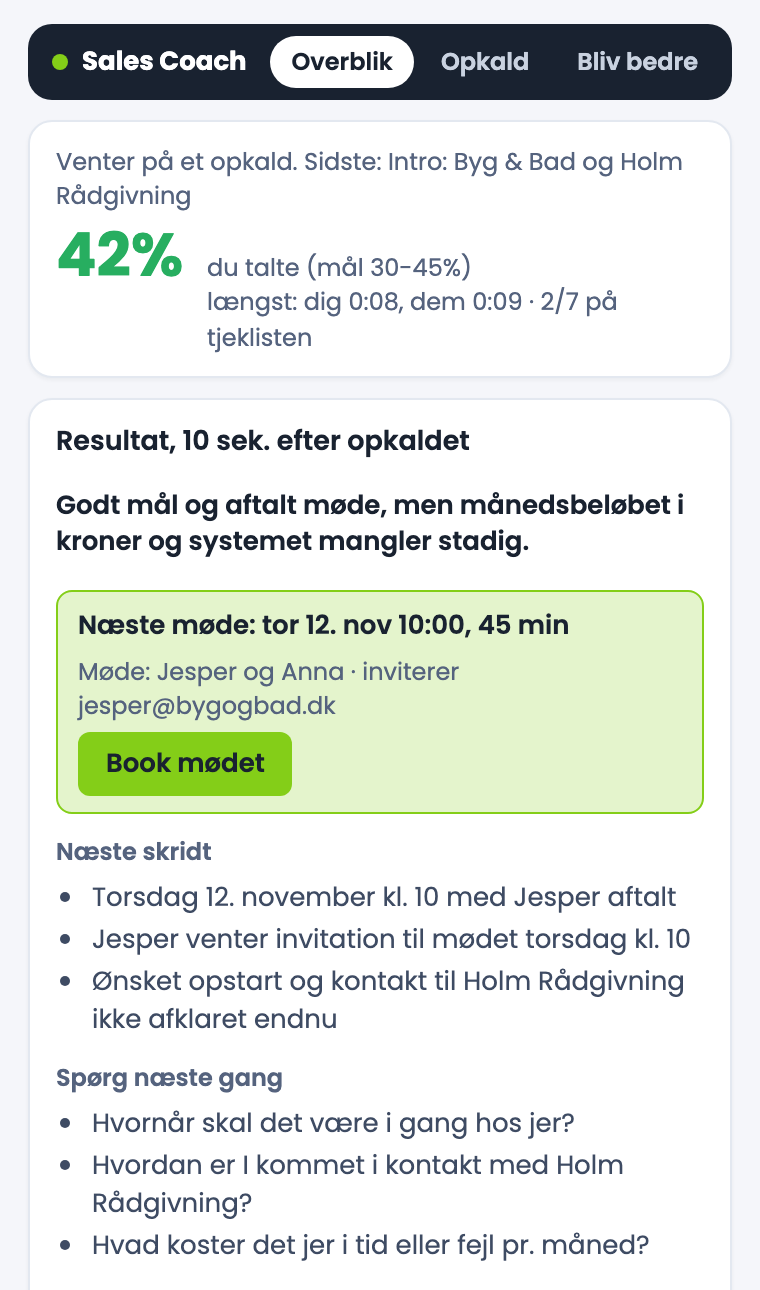
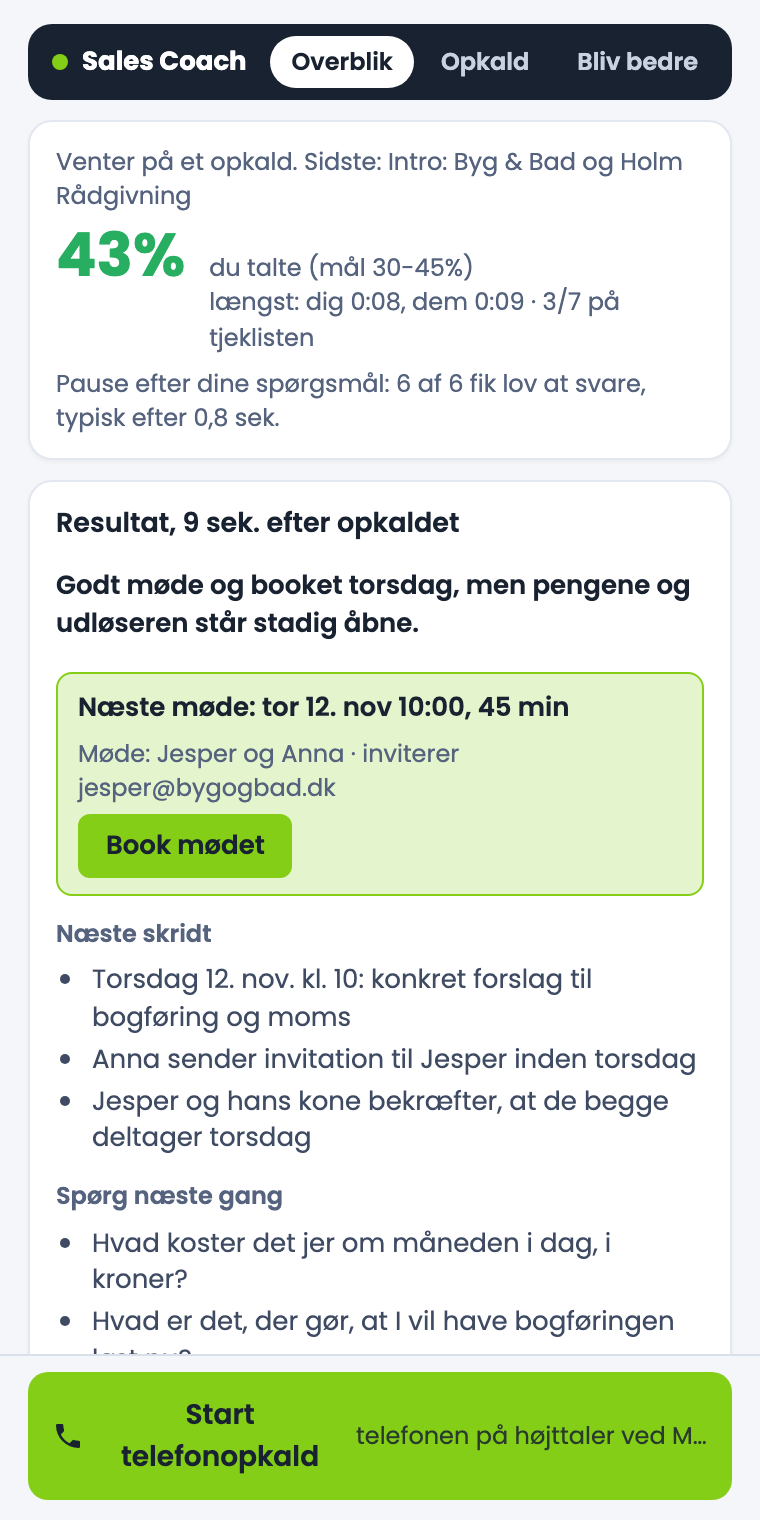
Guide: the result picture shows the whole window, with the Start telefonopkald button
page_shots.py takes the full window for after.png (the button is fixed at the bottom and fell outside the
old clip); the quote under "Én ærlig sætning" follows the new picture. during.png and notice.png kept.

Changed region(s): [[0.0303, 0.0, 0.9684, 0.9922], [0.0605, 0.7132, 0.0908, 0.7442]]

diff --git a/docs/index.html b/docs/index.html
@@ -521,7 +521,7 @@ Næste møde</textarea>
     <p class="lead">Coachens vurdering cirka ti sekunder efter, at du har lagt på, og noter cirka et minut efter.</p>
     <div class="shot-row">
       <figure class="shot">
-        <img src="img/after.png" alt="Coachens vurdering efter et møde" width="760" height="1290">
+        <img src="img/after.png" alt="Coachens vurdering efter et møde" width="760" height="1520">
         <span class="pin" style="top:19%">1</span>
         <span class="pin" style="top:41%">2</span>
         <span class="pin" style="top:54%">3</span>
@@ -531,7 +531,7 @@ Næste møde</textarea>
         <li><span class="n">1</span><div><h3>Mødet i tal</h3>
           <p>Din taleandel mod målet, din længste monolog og hvor meget af tjeklisten, I nåede.</p></div></li>
         <li><span class="n">2</span><div><h3>Én ærlig sætning</h3>
-          <p>Hvad der gik godt, og hvad der stadig mangler. Her: <q>Godt mål og aftalt møde, men månedsbeløbet i kroner og systemet mangler stadig.</q></p></div></li>
+          <p>Hvad der gik godt, og hvad der stadig mangler. Her: <q>Godt møde og booket torsdag, men pengene og udløseren står stadig åbne.</q></p></div></li>
         <li><span class="n">3</span><div><h3>Næste møde, klar til at booke</h3>
           <p>Aftalte I et næste møde, står det klar med tidspunkt og deltagere. Ét klik åbner det i din kalender. Intet bliver sendt af sig selv.</p></div></li>
         <li><span class="n">4</span><div><h3>Næste skridt, og hvad du skal spørge om næste gang</h3>

diff --git a/tests/page_shots.py b/tests/page_shots.py
@@ -85,7 +85,7 @@ def main() -> None:
             after = browser.new_page(viewport={"width": 380, "height": 760}, device_scale_factor=2)
             after.goto(f"{BASE}/?widget=1")
             after.wait_for_timeout(2500)
-            after.screenshot(path=str(IMG / "after.png"), clip={"x": 0, "y": 0, "width": 380, "height": 645})
+            after.screenshot(path=str(IMG / "after.png"))   # the whole window, with the phone button at the bottom
             print("after.png")
             browser.close()
     finally:
